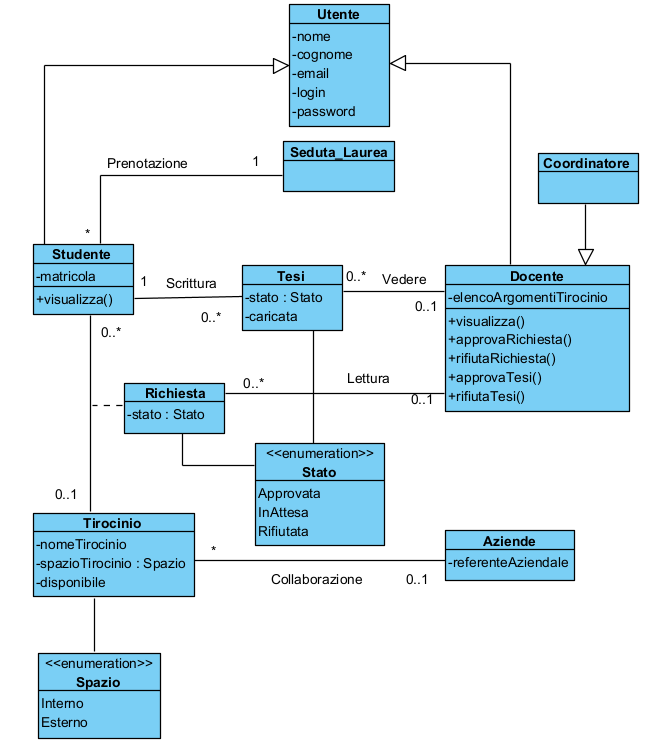
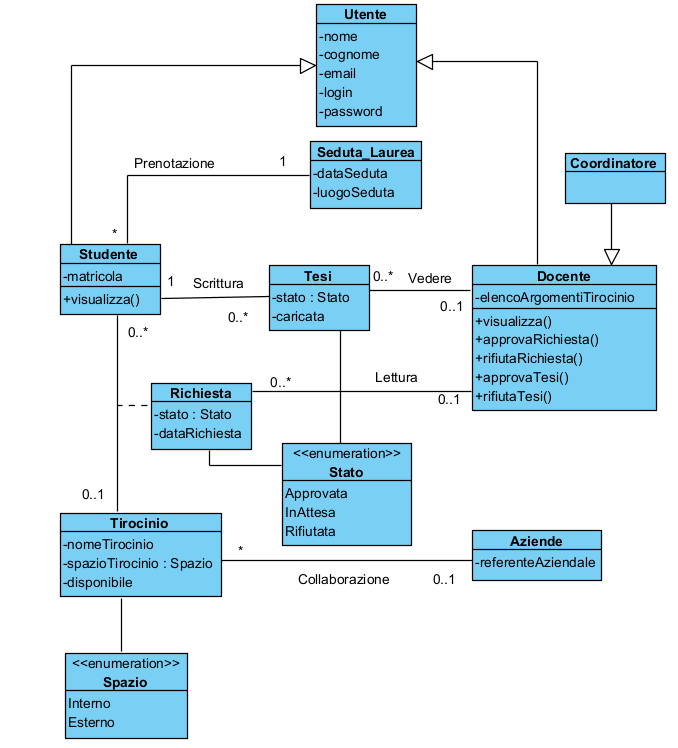
Aggiunte enumerazioni e modificati i metodi

Changed region(s): [[0.031, 0.0, 0.9922, 1.0]]

diff --git a/src/main/java/model/Docente.java b/src/main/java/model/Docente.java
@@ -1,16 +1,48 @@
 package model;
+import java.util.*;
 
 public class Docente extends Utente{
     protected String elencoArgomentiTirocinio;
+    protected ArrayList<Richiesta> richieste;
+    protected ArrayList<Tesi> tesi;
 
     public Docente(String nome, String cognome, String email, String login, String password, String elencoArgomentiTirocinio){
         super(nome,cognome,email,login,password);
         this.elencoArgomentiTirocinio=elencoArgomentiTirocinio;
     }
 
-    public void visualizza(){}
-    public void approvaRichiesta(){}
-    public void rifiutaRichiesta(){}
-    public void approvaTesi(){}
-    public void rifiutaTesi(){}
+    public void aggiungiRichiesta (Richiesta richieste){
+        this.richieste.add(richieste);
+    }
+
+    public void aggiungiTesi(Tesi tesi){
+        this.tesi.add(tesi);
+    }
+
+    public void visualizza(){
+        for(Richiesta r: richieste){
+            Studente s=r.ottieniStudente();
+            s.nomeStudenete();
+        }
+        for(Richiesta r: richieste){
+            Tirocinio t=r.ottieniTirocinio();
+            t.getNomeTirocinio();
+        }
+    }
+    public void approvaRichiesta(int n){
+        Richiesta r=this.richieste.get(n);
+        r.approva();
+    }
+    public void rifiutaRichiesta(int n){
+        Richiesta r=this.richieste.get(n);
+        r.rifiuta();
+    }
+    public void approvaTesi(int n){
+        Tesi t=this.tesi.get(n);
+        t.rifiuta();
+    }
+    public void rifiutaTesi(int n){
+        Tesi t=this.tesi.get(n);
+        t.rifiuta();
+    }
 }

diff --git a/src/main/java/model/Richiesta.java b/src/main/java/model/Richiesta.java
@@ -2,11 +2,32 @@ package model;
 import java.util.*;
 
 public class Richiesta {
-    String stato;
-    Date dataRichiesta;
+    private Stato stato;
+    private Date dataRichiesta;
+    private Tirocinio tirocinio;
+    private Studente studente;
 
-    public Richiesta(String stato, Date dataRichiesta){
-        this.stato=stato;
+    public Richiesta(Date dataRichiesta, Tirocinio tirocinio, Studente studente) {
+        this.stato.inAttesa();
         this.dataRichiesta=dataRichiesta;
+        this.tirocinio=tirocinio;
+        this.studente=studente;
+    }
+
+    public void approva() {
+        this.stato.approvata();
+    }
+
+    public void rifiuta(){
+        this.stato.rifiutata();
+    }
+
+    public Studente ottieniStudente() {
+        if (this.stato.equals("Approvata"))
+            return this.studente;
+    }
+
+    public Tirocinio ottieniTirocinio(){
+        return this.tirocinio;
     }
 }

diff --git a/src/main/java/model/Tesi.java b/src/main/java/model/Tesi.java
@@ -1,11 +1,22 @@
 package model;
+import java.util.*;
 
 public class Tesi {
-    String stato;
-    boolean caricata;
+    private Stato stato;
+    private boolean caricata;
+    Studente studente;
 
-    public Tesi(String stato, boolean caricata){
-        this.stato=stato;
+    public Tesi(boolean caricata, Studente studente){
+        this.stato.inAttesa();
         this.caricata=caricata;
+        this.studente=studente;
+    }
+
+    public void approva() {
+        this.stato.approvata();
+    }
+
+    public void rifiuta(){
+        this.stato.rifiutata();
     }
 }

diff --git a/src/main/java/model/Studente.java b/src/main/java/model/Studente.java
@@ -1,12 +1,24 @@
 package model;
+import java.util.*;
 
 public class Studente extends Utente {
-    String matricola;
-
+    private String matricola;
+    private ArrayList<Tesi> tesi;
 
     public Studente(String nome, String cognome, String email, String login, String password, String matricola){
         super(nome,cognome,email,login,password);
         this.matricola=matricola;
     }
-    public void visualizza(){}
+
+    public void aggiungiTesi(Tesi tesi){
+        this.tesi.add(tesi);
+    }
+
+    public void visualizza(){
+        System.out.println();
+    }
+
+    public void nomeStudenete(){
+        System.out.println(this.nome);
+    }
 }

diff --git a/src/main/java/model/Azienda.java b/src/main/java/model/Azienda.java
@@ -1,0 +1,15 @@
+package model;
+
+import java.util.ArrayList;
+
+public class Azienda {
+    String referenteAziendale;
+    ArrayList<Tirocinio> tirocini;
+
+    public Azienda(String referenteAziendale) {
+        this.referenteAziendale = referenteAziendale;
+    }
+    public void aggiungiTirocinio(Tirocinio tirocini){
+        this.tirocini.add(tirocini);
+    }
+}

diff --git a/src/main/java/model/Tirocinio.java b/src/main/java/model/Tirocinio.java
@@ -3,13 +3,22 @@ import java.util.*;
 
 public class Tirocinio {
     private String nomeTirocinio;
-    private String spazioTirocinio;
+    private Spazio spazioTirocinio;
     private boolean disponibile;
+    private ArrayList<Studente> studenti;
 
 
-    public Tirocinio(String nomeTirocinio, String spazioTirocinio, boolean disponibile){
+    public Tirocinio(String nomeTirocinio, Spazio spazioTirocinio, boolean disponibile){
         this.nomeTirocinio=nomeTirocinio;
         this.spazioTirocinio=spazioTirocinio;
         this.disponibile=disponibile;
+    }
+
+    public void aggiungiStudente(Studente studenti){
+        this.studenti.add(studenti);
+    }
+
+    public void getNomeTirocinio(){
+        System.out.println(this.nomeTirocinio);
     }
 }

diff --git a/src/main/java/model/SedutaLaurea.java b/src/main/java/model/SedutaLaurea.java
@@ -2,11 +2,16 @@ package model;
 import java.util.*;
 
 public class SedutaLaurea {
-    Date dataSeduta;
-    String luogoSeduta;
+    private Date dataSeduta;
+    private String luogoSeduta;
+    private ArrayList<Studente> studenti;
 
     public SedutaLaurea(Date dataSeduta, String luogoSeduta){
         this.dataSeduta=dataSeduta;
         this.luogoSeduta=luogoSeduta;
+    }
+
+    public void aggiungiStuudente(Studente studenti){
+            this.studenti.add(studenti);
     }
 }

diff --git a/src/main/java/model/Stato.java b/src/main/java/model/Stato.java
@@ -1,0 +1,9 @@
+package model;
+
+public enum Stato {
+    Approvata, InAttesa, Rifiutata;
+
+    public String inAttesa(){return "InAttesa";}
+    public String rifiutata(){return "Rifiutata";}
+    public String approvata(){return "Approvata";}
+}

diff --git a/src/main/java/model/Spazio.java b/src/main/java/model/Spazio.java
@@ -1,0 +1,5 @@
+package model;
+
+public enum Spazio {
+    Interno, Esterno;
+}

diff --git a/src/main/java/model/Coordinatore.java b/src/main/java/model/Coordinatore.java
@@ -1,4 +1,5 @@
 package model;
+import java.util.*;
 
 public class Coordinatore extends Docente{
 

diff --git a/src/main/java/model/TestModel.java b/src/main/java/model/TestModel.java
@@ -1,4 +1,5 @@
 package model;
+import java.util.*;
 
 public class TestModel {
 

diff --git a/src/main/java/model/Utente.java b/src/main/java/model/Utente.java
@@ -1,5 +1,4 @@
 package model;
-
 import java.util.ArrayList;
 
 public class Utente {